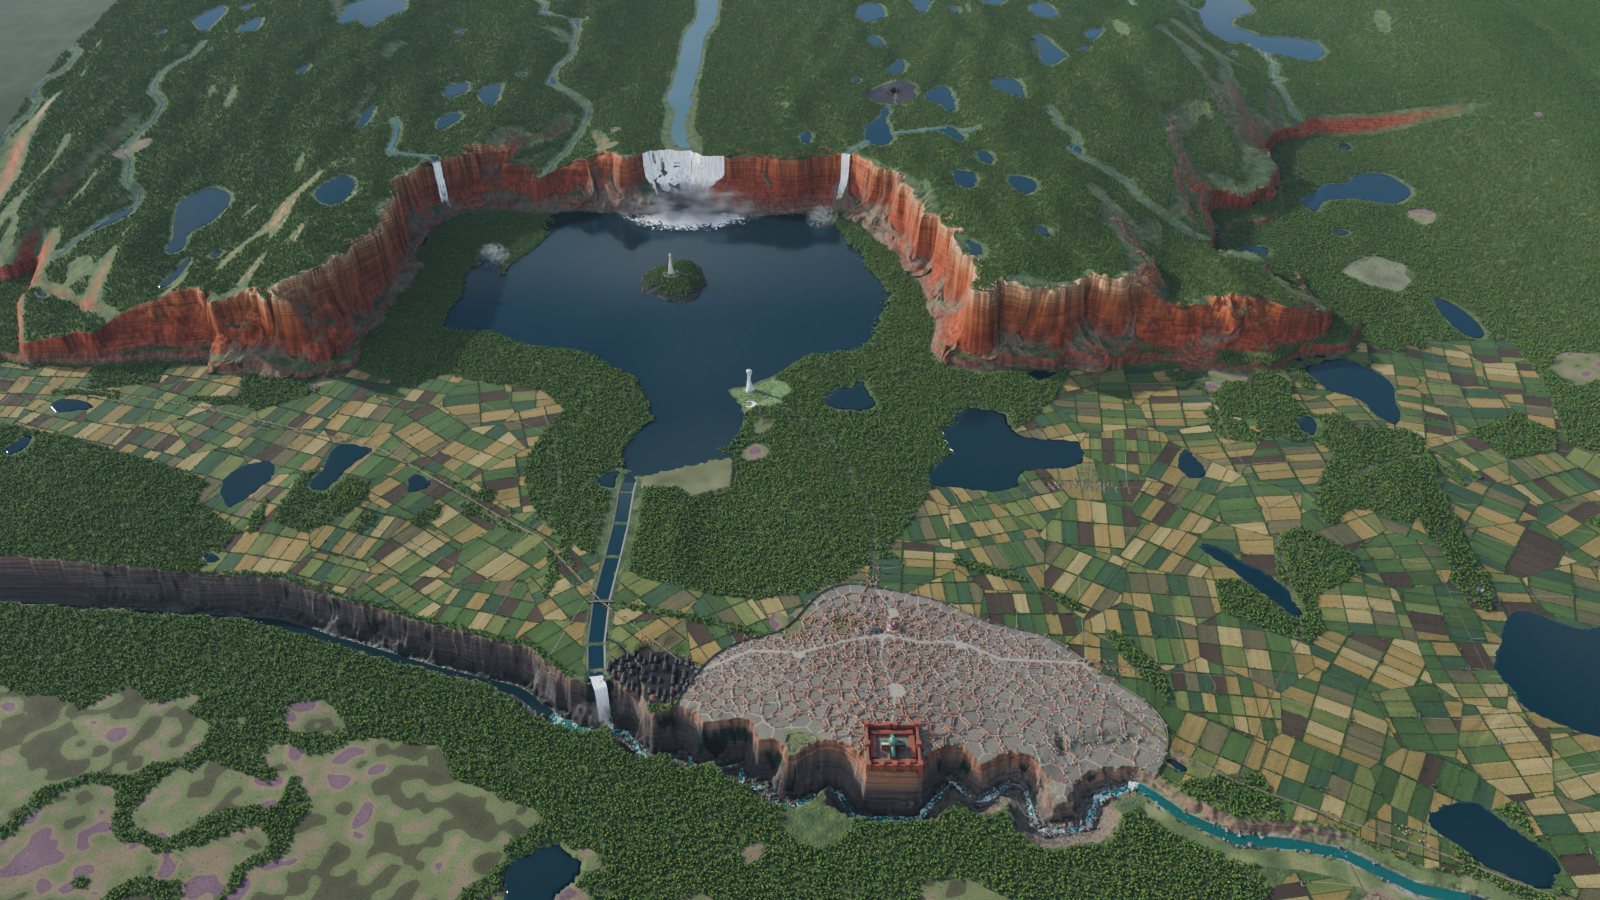
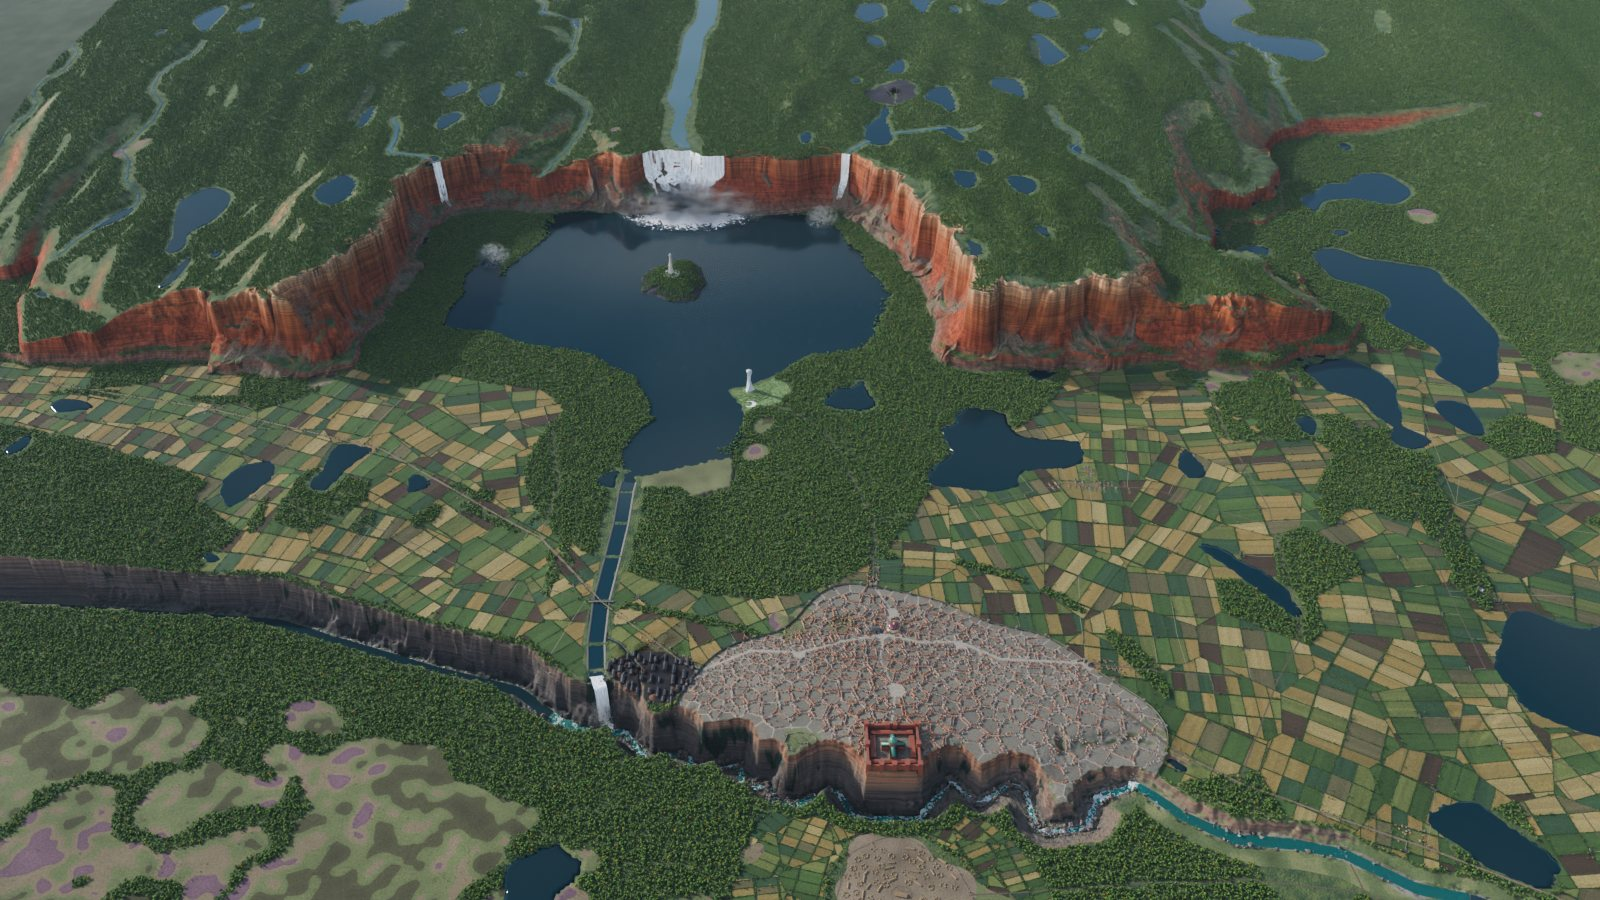
Shadowmoon across from the Keep, and the barony's places where they belong
Shadowmoon moves directly across the gorge from the Keep and grows into a large,
still primitive town, its road running east along the rim to the ferry. Old
Kossenberg goes straight south to the Rauvin's bank by the Trade Way. The Old
Stone grove is now south-east of the dojo, the furthest place out on the shelf,
with a spring-fed trickle for a brook. Moondancer moves further north, the
ranger lodge to the canyon's far west, and Snorbul's Hole is placed in the woods
north of Kossenberg on the way to the Fane. The barony map is widened to take
them all in.

Claude-Session: https://claude.ai/code/session_01CacC3kcDPTqHS8f3YVmo4r

diff --git a/src/content/wiki/thunder-bluff.md b/src/content/wiki/thunder-bluff.md
@@ -104,7 +104,7 @@ The lake's river leaves by its old course and runs down the west side of the cit
 </figure>
 </div>
 
-Kossenberg is older than any of it: the farming village was working the shelf before the barony was a barony. It stands on the road along the shelf north-east of the city, toward the cliffs' foot, its crofts running back into the fields. East of the farms, in the woods on the scarp, is [[tarks-dojo|Tark's dojo]], and further along the road, down in a glade, is Doc's druid grove: [[old-stone-grove|the Old Stone grove]], a sunken dale with the standing stone in its clearing.
+Kossenberg is older than any of it: the farming village was working the shelf before the barony was a barony. It stands on the road along the shelf north-east of the city, toward the cliffs' foot, its crofts running back into the fields. East of the farms, in the woods on the scarp, is [[tarks-dojo|Tark's dojo]], and south-east of it, under the eastern hills and further out from the city than anything else on the shelf, is Doc's druid grove: [[old-stone-grove|the Old Stone grove]], a sunken dale with the standing stone in its clearing. In the woods north of Kossenberg, on the way to the Fane, a hole in the ground among heaps of gravel is all anyone sees of [[snorbuls-hole|Snorbul's Hole]].
 
 <div class="plates">
 <figure>
@@ -168,15 +168,15 @@ The river follows a great fault. The shelf is the side that rose and the land to
 
 The Barony of Thunder Bluff was awarded to the party by High Marshal Arasume in the aftermath of the failed Amnian coup at [[silverymoon|Silverymoon]]. The entire region for miles around lies within the barony's political boundaries, governed by a council of adventurers who call themselves the [[faerun-defense-force|Faerûn Defense Force]] — though their detractors know them as the Heralds of Woe. Its city, New Daggerford, is slowly coming to be called [[selunia|Selunia]], and the barony often goes by that name too.
 
-When the party first arrived, the ranger Moogie gave them a survey: the ruined castle of High Hold (Moorwatch), destroyed two years earlier by the Orcish Horde; the village of [[kossenberg|Kossenberg]], at the foot of the Moonwood; Old Kossenberg, the ruins of the original settlement, far off in the hills to the north-east; Lake [[selune|Selûna]] and its ranger lodge; the Red Hill with its iron deposits and the Glittering Caves beneath; and Oldstone, a sacred menhir older than local memory, in what became Doc's [[old-stone-grove|Old Stone grove]].
+When the party first arrived, the ranger Moogie gave them a survey: the ruined castle of High Hold (Moorwatch), destroyed two years earlier by the Orcish Horde; the village of [[kossenberg|Kossenberg]], at the foot of the Moonwood; Old Kossenberg, the ruins of the original settlement, down on the Rauvin's bank east of the city; Lake [[selune|Selûna]] and its ranger lodge; the Red Hill with its iron deposits and the Glittering Caves beneath; and Oldstone, a sacred menhir older than local memory, in what became Doc's [[old-stone-grove|Old Stone grove]].
 
 ## Settlement
 
-A tribe of orc deserters who had fled the Horde and been driven from caves beneath the bluff by the spirit troll Shadowclaw were the barony's first citizens. The party offered them land in the barony — the ruins of Old Kossenberg were the first thing named — in exchange for proof of strength: destroying Shadowclaw from the caverns. The tribe settled in Thunder Bluff itself, at [[shadowmoon-village|Shadowmoon Village]] on the Rauvin's south bank, south-east of the city. Freed slaves from across the North later made their way to [[selunia|Selunia]], drawn by the promise of a fresh start.
+A tribe of orc deserters who had fled the Horde and been driven from caves beneath the bluff by the spirit troll Shadowclaw were the barony's first citizens. The party offered them land in the barony — the ruins of Old Kossenberg were the first thing named — in exchange for proof of strength: destroying Shadowclaw from the caverns. The tribe settled in Thunder Bluff itself, at [[shadowmoon-village|Shadowmoon Village]] on the gorge's south rim, directly across from the Keep. It is still a primitive place, palisade, huts and longhouses, but it has grown large. Freed slaves from across the North later made their way to [[selunia|Selunia]], drawn by the promise of a fresh start.
 
 <figure class="plate">
-<img src="/images/barony/shadowmoon_air.jpg" alt="Shadowmoon Village behind its palisade among strip fields on the south bank of the Rauvin, with the river running up to white water, New Daggerford and the Keep on the rim beyond, and the falls of the Red Hills in the distance." width="1600" height="900" loading="lazy" />
-<figcaption>Shadowmoon Village on the south bank, looking up the shelf past the Doorstep to the city and the falls.</figcaption>
+<img src="/images/barony/shadowmoon_air.jpg" alt="Shadowmoon's great palisade and its hundreds of huts on the moor, strip fields round it, the gorge of the Rauvin beyond and New Daggerford and the Keep on the far rim, with the falls of the Red Hills in the distance." width="1600" height="900" loading="lazy" />
+<figcaption>Shadowmoon, across the gorge from the Keep.</figcaption>
 </figure>
 
 ## Other Landmarks

diff --git a/src/content/wiki/old-stone-grove.md b/src/content/wiki/old-stone-grove.md
@@ -3,16 +3,16 @@ title: "The Old Stone Grove"
 category: "Places"
 aliases: ["Oldstone", "Old Stone", "The Old Stone", "Druid Grove", "Doc's Grove", "Old Stone Druid Grove"]
 firstAppearance: "chapter-08-session-27"
-description: "Doc's druid grove in the Barony of Thunder Bluff: a sunken, forested dale at the end of the farm road east of the city, with a massive standing stone in a clearing at its heart. Hallowed ground."
+description: "Doc's druid grove in the Barony of Thunder Bluff: a sunken, forested dale south-east of Tark's dojo, the furthest place out from the city on the shelf, with a massive standing stone in a clearing at its heart. Hallowed ground."
 image: "/images/barony/grove.jpg"
 imageAlt: "A massive standing stone in a meadow clearing by a brook, in a deep wooded dale that ends in a sheer red rock wall with scree at its foot"
 ---
 
-The Old Stone Grove is [[doc|Doc]]'s druid grove, in the Barony of [[thunder-bluff|Thunder Bluff]]. It lies further along the farm road from [[tarks-dojo|Tark's dojo]], down in a glade where the road ends: a basin, a forested dale nestled among rolling hills. At its centre is a clearing with flowing water, and at the centre of that stands Oldstone, a massive standing stone older than local memory.
+The Old Stone Grove is [[doc|Doc]]'s druid grove, in the Barony of [[thunder-bluff|Thunder Bluff]]. It lies south-east of [[tarks-dojo|Tark's dojo]], further out from the city than anything on the shelf, down in a glade under the eastern hills: a basin, a forested dale nestled among rolling hills. A track leaves the farm road below the dojo and runs round the south shore of the lake there and up into the dale's mouth. At its centre is a clearing with flowing water, and at the centre of that stands Oldstone, a massive standing stone older than local memory.
 
 ## The Dale
 
-The road ends at a small pond in a hollow among the hills, and the pond spills over a step in the rock into the dale it has cut back toward itself. The head of the dale is a cul-de-sac under a sheer drop of red stone, the last thin edge of the Red Hills, with a thin fall of water down it and rocky scree heaped at its foot, and there is a harsh line where the scree gives way to the lush trees and wildflowers of the grove. The brook winds down across the dale's floor and past the stone to a small pool where the dale opens out. The sides are wooded, steep at the head and easier further down, and the track comes down the west side into the clearing.
+Above the dale, on a bench under the hills, is a small spring-fed pond, and it spills over a step in the rock into the dale that the springs and the fall have cut back toward it. The head of the dale is a cul-de-sac under a sheer drop of red stone, the last thin edge of the Red Hills, with a thread of water down it and rocky scree heaped at its foot, and there is a harsh line where the scree gives way to the lush trees and wildflowers of the grove. The brook winds down across the dale's floor and past the stone to a small pool where the dale opens out, and runs on to the lake below the dojo. The sides are wooded, steep at the head and easier further down, and the track comes up the dale's floor from its mouth into the clearing.
 
 The grove is hallowed ground. Fiends, undead and their like cannot enter it, and any possessed creature brought there is freed of its possession.
 

diff --git a/src/content/wiki/kossenberg.md b/src/content/wiki/kossenberg.md
@@ -3,7 +3,7 @@ title: "Kossenberg"
 category: "Places"
 aliases: ["New Kossenberg", "Old Kossenberg"]
 firstAppearance: "chapter-06-session-15"
-description: "The farming village of the Barony of Thunder Bluff, up the road north-east of New Daggerford toward the foot of the Moonwood: older than the barony itself. Its ruined predecessor, Old Kossenberg, lies in the hills to the north-east."
+description: "The farming village of the Barony of Thunder Bluff, up the road north-east of New Daggerford toward the foot of the Moonwood: older than the barony itself. Its ruined predecessor, Old Kossenberg, lies on the bank of the Rauvin east of the city."
 image: "/images/barony/kossenberg.jpg"
 imageAlt: "Kossenberg among its fields, its lane running up from the green toward the red cliffs"
 ---
@@ -18,8 +18,8 @@ The village keeps its own counsel through its town elders, among them Mark, and 
 
 ## Old Kossenberg
 
-Far off in the hills to the north-east lie the ruins of Old Kossenberg — the original town, destroyed two years prior to the group's arrival by the Orcish Horde during its devastating sweep through the region. The ruins were first offered to [[luumsh|Luumsh]]'s tribe of Orc deserters, but the tribe settled at [[shadowmoon-village|Shadowmoon Village]] on the Rauvin instead, and the old town stands empty, going back to the hills.
+Down on the north bank of the Rauvin, east of the city where the river still runs quiet and nearly level with the land, lie the ruins of Old Kossenberg — the original town, destroyed two years prior to the group's arrival by the Orcish Horde during its devastating sweep through the region. The [[thunder-bluff|Trade Way]] runs past the broken walls. The ruins were first offered to [[luumsh|Luumsh]]'s tribe of Orc deserters, but the tribe settled at [[shadowmoon-village|Shadowmoon Village]], across the gorge from the Keep, instead, and the old town stands empty, its fields gone back to rough grass.
 
 ## Surrounding Landmarks
 
-The Red Hill stands at the foot of the eastern cliffs beyond the village, with its iron workings and the Glittering Caves beneath. Oldstone — a sacred menhir older than local memory — stands in [[old-stone-grove|the Old Stone grove]], Doc's druid grove, down in a glade where the farm road east of the city ends; the village processes there at Spring Planting. [[tarks-dojo|Tark's dojo]] is in the woods along that road. Down the road lies [[selunia|New Daggerford]], with [[high-hold|High-Hold]] on the next prow of the bluff, and Lake Selûna and its ranger lodge lie to the west.
+The Red Hill stands at the foot of the eastern cliffs beyond the village, with its iron workings and the Glittering Caves beneath. Oldstone — a sacred menhir older than local memory — stands in [[old-stone-grove|the Old Stone grove]], Doc's druid grove, in a sunken dale south-east of [[tarks-dojo|Tark's dojo]], the furthest place out from the city on the shelf; the village processes there at Spring Planting. In the woods north of the village, on the way to the Fane, a hole in the ground among heaps of gravel is the way down into [[snorbuls-hole|Snorbul's Hole]]. Down the road lies [[selunia|New Daggerford]], with [[high-hold|High-Hold]] on the next prow of the bluff, and Lake Selûna lies to the west.

diff --git a/src/content/wiki/shadowmoon-village.md b/src/content/wiki/shadowmoon-village.md
@@ -3,14 +3,14 @@ title: "Shadowmoon Village"
 category: "Places"
 aliases: ["Shadowmoon Village", "Shadowmoon Clan"]
 firstAppearance: "chapter-06-session-15"
-description: "The Orc settlement of the Shadowmoon Clan — allies of the Barony — on the Rauvin's south bank, south-east of New Daggerford, between the river and the Evermoors."
+description: "The Orc town of the Shadowmoon Clan — allies of the Barony — a large palisaded settlement on the south rim of the Rauvin's gorge, directly across from the Keep of Thunder Bluff, between the river and the Evermoors."
 image: "/images/barony/shadowmoon_air.jpg"
-imageAlt: "Shadowmoon Village behind its palisade among strip fields on the south bank of the Rauvin, with New Daggerford and the falls beyond"
+imageAlt: "Shadowmoon behind its great palisade among strip fields on the moor, with the gorge of the Rauvin beyond it and the Keep of Thunder Bluff across the gorge"
 home: "thunder-bluff"
 ---
 
 Shadowmoon Village is home to the Orc tribe led by [[luumsh|Luumsh]] and Keek — deserters who fled the Horde two years before the party's arrival, settled on the land between the [[the-evermoors|Evermoors]] and the Barony of [[thunder-bluff|Thunder Bluff]] after proving their strength by destroying the spirit troll Shadowclaw. As the tribe grew and formalised its identity under the Barony's banner, they became known as the Shadowmoon Clan, and their settlement as Shadowmoon Village.
 
-The village stands on the south bank of the [[thunder-rapids|Rauvin]], south-east of [[selunia|New Daggerford]], where the river still runs quiet and nearly level with the land before it reaches the Doorstep and the [[thunder-rapids|Thunder Rapids]]. A palisade rings round huts, longhouses and a moot hall, with the clan's fields outside it and the moors beginning beyond them. A rope ferry crosses the quiet reach to the [[thunder-bluff|Trade Way]] on the far bank, and a lesser road runs east along the south bank.
+The village stands on the low south rim of the Rauvin's gorge, directly across the [[thunder-rapids|Thunder Rapids]] from the [[keep-of-thunder-bluff|Keep of Thunder Bluff]], with the moors of the [[the-evermoors|Evermoors]] running away south behind it. It is still a primitive settlement, but a large one: a palisade the better part of half a mile across, with watchtowers on it and gates to the north, facing the Keep, and to the east. Inside are hundreds of round huts gathered in family compounds about their fire pits, dozens of longhouses, and at the heart the clan's moot hall in a ring of its own stakes, with the totems before it. The clan's strip fields lie round the palisade on the moor. Nobody crosses the gorge here: the clan's road runs east along the rim to the rope ferry over the quiet reach, above the Doorstep, where the [[thunder-bluff|Trade Way]] comes down to the far bank, and a lesser road runs on east along the south bank.
 
 Shadowmoon Village stands as one of the Barony's first and staunchest allied settlements, its people working the land and contributing to Thunder Bluff's defence in exchange for citizenship and safety.

diff --git a/src/content/wiki/luumsh.md b/src/content/wiki/luumsh.md
@@ -13,6 +13,6 @@ Luumsh is the leader of a tribe of Orc deserters who fled the Horde during its i
 
 When the group arrived — the new lords of the barony — Luumsh initially feared expulsion. His tribe grew agitated until Cirrus made the opposite clear: they were looking for citizens, not enemies. In exchange for safety and land of their own — the ruins of Old Kossenberg were the first thing offered — the orcs would work the land and contribute to the barony's defence.
 
-Luumsh put a condition on the deal: prove your strength by destroying Shadowclaw. The group obliged, and the tribe erupted in cheers when everyone returned alive. Over Ankheg stew and storytelling, the orcs became convinced the group had been sent by Gruumsh himself. Luumsh declared he would gather other like-minded tribes for the great war Tark warned was coming. In the end the tribe settled in Thunder Bluff itself, on the south bank of the Rauvin, at what became [[shadowmoon-village|Shadowmoon Village]].
+Luumsh put a condition on the deal: prove your strength by destroying Shadowclaw. The group obliged, and the tribe erupted in cheers when everyone returned alive. Over Ankheg stew and storytelling, the orcs became convinced the group had been sent by Gruumsh himself. Luumsh declared he would gather other like-minded tribes for the great war Tark warned was coming. In the end the tribe settled in Thunder Bluff itself, on the gorge's south rim across from the Keep, at what became [[shadowmoon-village|Shadowmoon Village]].
 
 He is supported by Keek, a little old lady-orc and shaman of Luthic, who serves as both spiritual advisor and cook.

diff --git a/src/content/wiki/tarks-dojo.md b/src/content/wiki/tarks-dojo.md
@@ -8,7 +8,7 @@ image: "/images/barony/dojo.jpg"
 imageAlt: "The dojo's roofed gate at the head of a stone stair, its walls and the hall's great roof rising behind among pines"
 ---
 
-The Dojo is [[tarkathee-daru|Tark]]'s training hall in the Barony of [[thunder-bluff|Thunder Bluff]]. It stands set back in the treeline, in the woods on the scarp east of the farms that run up from [[selunia|New Daggerford]], and a footpath climbs to it off the farm road along the shelf. Further along the road, down in a glade, is Doc's druid grove, [[old-stone-grove|the Old Stone grove]].
+The Dojo is [[tarkathee-daru|Tark]]'s training hall in the Barony of [[thunder-bluff|Thunder Bluff]]. It stands set back in the treeline, in the woods on the scarp east of the farms that run up from [[selunia|New Daggerford]], and a footpath climbs to it off the farm road along the shelf. South-east of it, round the lake below and up under the eastern hills, is Doc's druid grove, [[old-stone-grove|the Old Stone grove]].
 
 ## The Grounds
 

diff --git a/src/content/wiki/snorbuls-hole.md b/src/content/wiki/snorbuls-hole.md
@@ -4,9 +4,11 @@ category: "Places"
 aliases: ["The Hole"]
 firstAppearance: "chapter-01-session-01"
 description: "A labyrinthine underground fighting arena operated by Snorbul within the Barony of Thunder Bluff."
+image: "/images/barony/snorbul.jpg"
+imageAlt: "A dark hole in the ground in a woodland clearing, ringed by heaps of dug earth and loose stones"
 ---
 
-Snorbul's Hole is a labyrinthine complex of underground tunnels and chambers located within the Barony of Thunder Bluff. It is owned, operated, and championed by Snorbul himself.
+Snorbul's Hole is a labyrinthine complex of underground tunnels and chambers located within the Barony of [[thunder-bluff|Thunder Bluff]]. It is owned, operated, and championed by Snorbul himself. The way in is in the woods north of [[kossenberg|Kossenberg]], off any road, on the way to the [[fane-of-selune|Fane of Selûne]].
 
 ## Surface
 

diff --git a/src/content/wiki/moondancer-village.md b/src/content/wiki/moondancer-village.md
@@ -8,7 +8,7 @@ description: "Moon Elf settlement in the Moonwood forest."
 
 ## Description
 
-Moondancer Village is a Moon Elf settlement nestled within the Moonwood forest. The village maintains traditional elven ways and serves as home to elves including Lelria, Jindree, and Fesk.
+Moondancer Village is a Moon Elf settlement nestled within the Moonwood forest, deep in the western plateau far north of the Red Hills, where nobody comes by accident. Its long pale halls stand among the trees on the south shore of a lake in a hollow of the plateau, looking north over the water. The village maintains traditional elven ways and serves as home to elves including Lelria, Jindree, and Fesk.
 
 ## Significance
 
